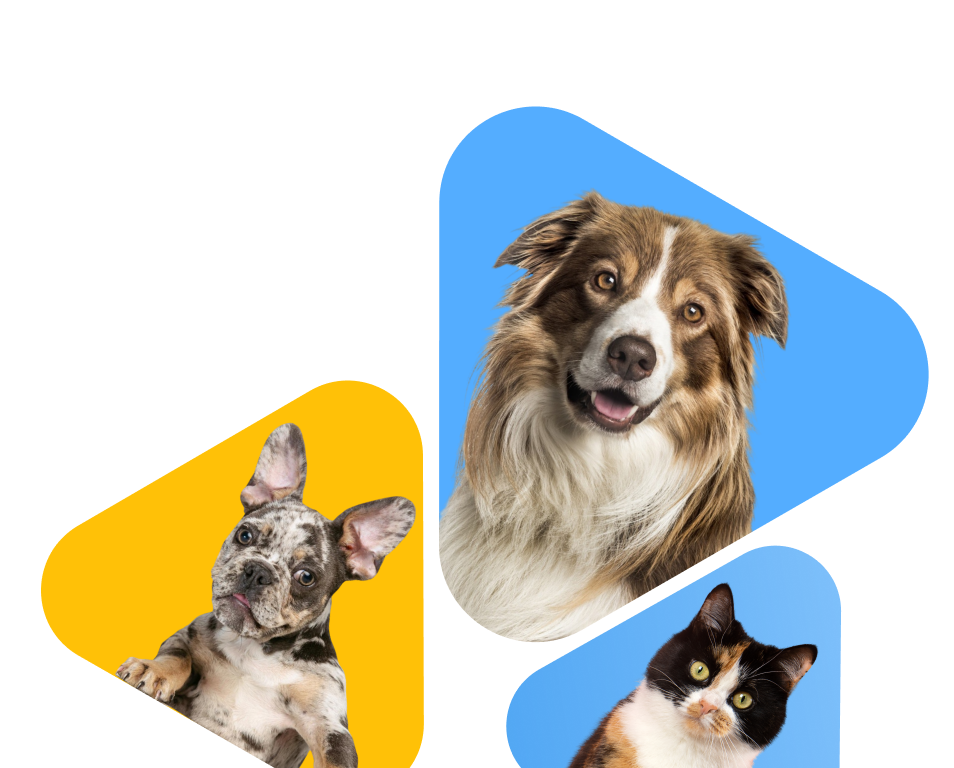
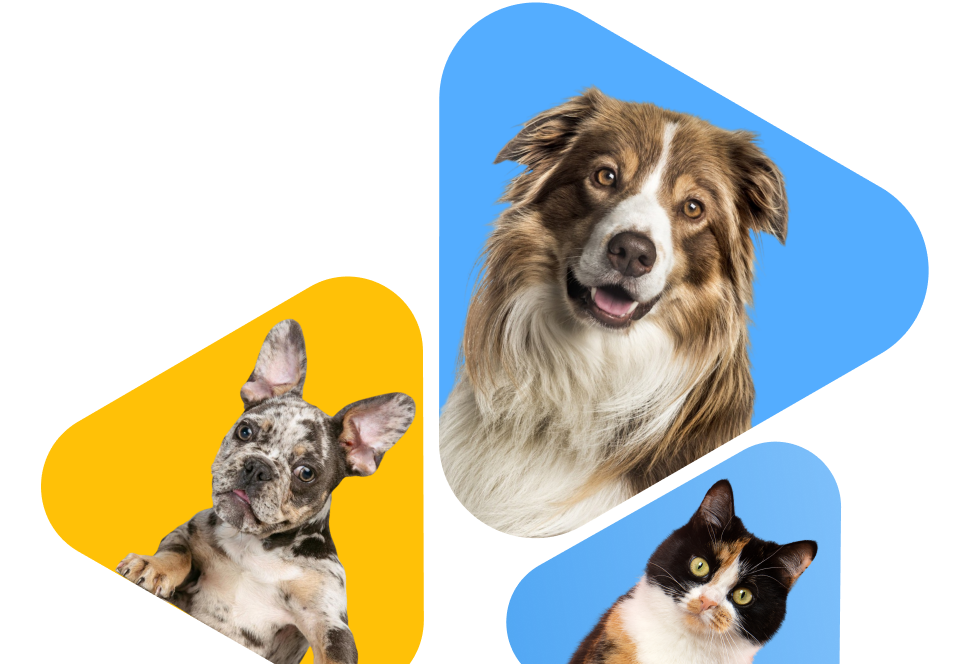
fix Main

diff --git a/src/components/Main/Main.styled.js b/src/components/Main/Main.styled.js
@@ -47,19 +47,16 @@ export const MainContainer = styled.div`
   }
 `;
 export const Images = styled.img`
-  position: absolute;
-  left: 0;
-  top: 40%;
-  content: url('${imgMob2}');
+  margin-top: 20px;
+  content: url('${imgMob1}');
 
   @media (min-device-pixel-ratio: 2),
     (min-resolution: 192dpi),
     (min-resolution: 2dppx) {
-    content: url('${imgMob1}');
+    content: url('${imgMob2}');
   }
 
   @media screen and (${devices.tablet}) {
-    height: 818px;
     content: url('${imgTab1}');
 
     @media (min-device-pixel-ratio: 2),
@@ -89,7 +86,6 @@ export const MainTitle = styled.h1`
     width: 588px;
     font-size: 68px;
     font-weight: 600;
-    margin-top: 160px;
   }
 
   @media screen and (${devices.desktop}) {

diff --git a/src/components/Sharedlayout/Sharedlayout.jsx b/src/components/Sharedlayout/Sharedlayout.jsx
@@ -3,17 +3,18 @@ import  Header from "components/Header/Header";
 import Navigation from "components/Navigation/Navigation";
 import UserNav from "components/UserNav/UserNav";
 import { Outlet } from "react-router";
+import { Container } from "./Sharedlayout.styled";
 
 
 export default function Sharedlayout() {
   return (
-      <div>
+      <Container>
           <Header>
               <Navigation />
               <AuthNav />
               <UserNav/>
           </Header>
           <Outlet/>
-    </div>
+    </Container>
   )
 }

diff --git a/src/components/Sharedlayout/Sharedlayout.styled.js b/src/components/Sharedlayout/Sharedlayout.styled.js
@@ -1,0 +1,21 @@
+import styled from 'styled-components';
+import { devices } from 'constants/breakpoints';
+
+export const Container = styled.div`
+  width: 320px;
+  padding-left: 20px;
+  padding-right: 20px;
+  margin: 0 auto;
+
+  @media screen and (${devices.tablet}) {
+    width: 768px;
+    padding-left: 32px;
+    padding-right: 32px;
+  }
+
+  @media screen and (${devices.desktop}) {
+    width: 1280px;
+    padding-left: 16px;
+    padding-right: 16px;
+  }
+`;
